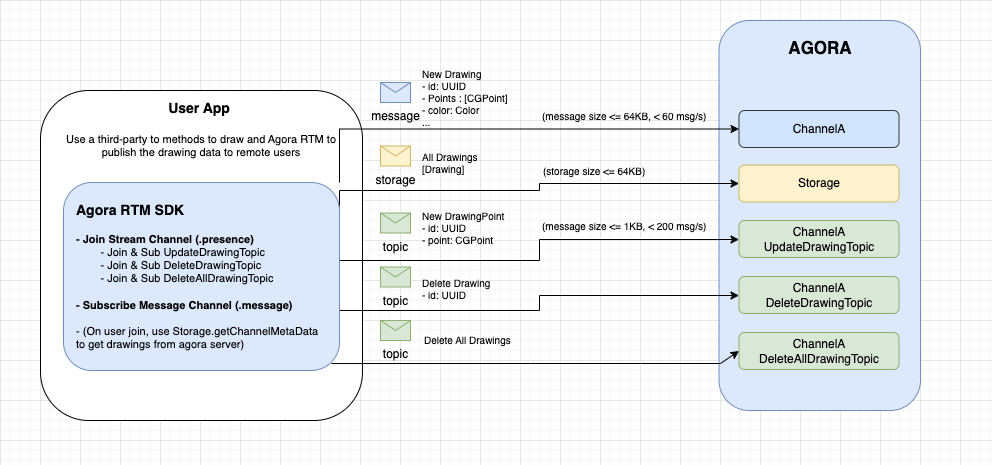
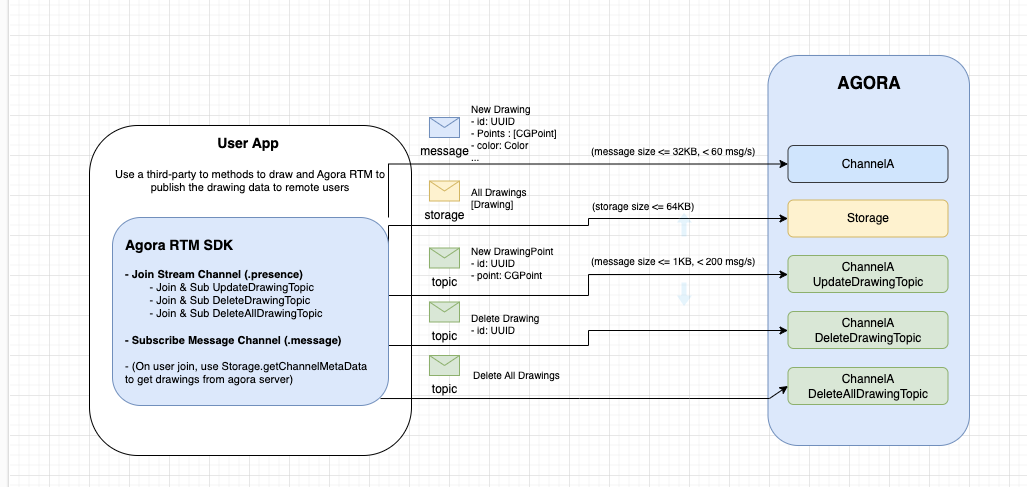
Minor update

diff --git a/APIExample_RTM2x/Examples/Advanced/WhiteBoard/README.md b/APIExample_RTM2x/Examples/Advanced/WhiteBoard/README.md
@@ -15,7 +15,7 @@
 
 This sample showcases how you can build an whiteboard collaborative tool. For the whiteboard, this sample uses SwiftUI's native method to draw. To transfer the whiteboard data, this sample uses both the `message` and `stream` channel types. These 2 types are used to publish different types data. 
 
-- The `message` channelType have a max message size of 64KB and rate of <60 messages per second. This is used to publish new Drawing which can be larger 1KB
+- The `message` channelType have a max message size of 32KB and rate of <60 messages per second. This is used to publish new Drawing which can be larger 1KB
 - The`stream` channelType have a max message size of 1KB, but has a rate of <200 messages per second. This is used to publish new Drawing Point in real-time, which can exceed the 60 message per second. 
 
  
